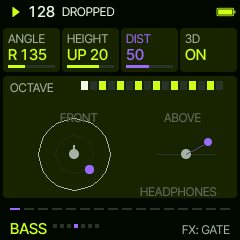
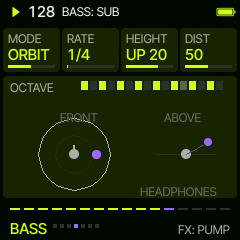
3D moving: MODE FIXED ORBIT RANDOM FLY, RATE for the orbits
Claude-Session: https://claude.ai/code/session_01VgesZgNNDFiPGvKyDTZVUK

diff --git a/firmware/src/sa_ui.c b/firmware/src/sa_ui.c
@@ -397,19 +397,28 @@ static void sv_cards_of(sa_ui *u, sv_card *c)
         break;
     }
     case SVP_3D: {
-        const sa_3d *d3 = &s->d3[sv_clampi(lc->part, 0, SA_SYNTHS - 1)];
+        int pp = sv_clampi(lc->part, 0, SA_SYNTHS - 1);
+        const sa_3d *d3 = &s->d3[pp];
+        static const char *const MODE[SA_3D_MODES] = {"OFF", "FIXED", "ORBIT", "RANDOM", "FLY"};
+        sv_card_txt(&c[0], "MODE", MODE[d3->on % SA_3D_MODES], d3->on * 1000 / (SA_3D_MODES - 1), false);
         int deg = d3->az * 5;
-        if (deg == 0) sv_cpy(t, "FRONT", sizeof t);
-        else if (deg == 180) sv_cpy(t, "BACK", sizeof t);
-        else { char a[8]; sv_cpy(t, deg < 180 ? "R " : "L ", sizeof t); sv_fmt_int(a, deg < 180 ? deg : 360 - deg);
-               sv_cat(t, a, sizeof t); }
-        sv_card_txt(&c[0], "ANGLE", t, d3->az * 1000 / (SA_AZ_STEPS - 1), false);
+        if (d3->on == SA_3D_ORBIT || d3->on == SA_3D_FLY) {
+            static const char *const R[SA_PRATES] = {"1/4", "1/2", "1 BAR", "2 BARS", "4 BARS"};
+            sv_card_txt(&c[1], "RATE", R[s->d3rate[pp] % SA_PRATES], s->d3rate[pp] * 1000 / (SA_PRATES - 1), false);
+        } else if (d3->on == SA_3D_RANDOM) {
+            sv_card_off(&c[1]);
+        } else {
+            if (deg == 0) sv_cpy(t, "FRONT", sizeof t);
+            else if (deg == 180) sv_cpy(t, "BACK", sizeof t);
+            else { char a[8]; sv_cpy(t, deg < 180 ? "R " : "L ", sizeof t); sv_fmt_int(a, deg < 180 ? deg : 360 - deg);
+                   sv_cat(t, a, sizeof t); }
+            sv_card_txt(&c[1], "ANGLE", t, d3->az * 1000 / (SA_AZ_STEPS - 1), false);
+        }
         if (d3->el == 0) sv_cpy(t, "LEVEL", sizeof t);
         else { char a[8]; sv_cpy(t, d3->el > 0 ? "UP " : "DOWN ", sizeof t); sv_fmt_int(a, d3->el > 0 ? d3->el : -d3->el);
                sv_cat(t, a, sizeof t); }
-        sv_card_txt(&c[1], "HEIGHT", t, (d3->el + 50) * 10, false);
-        sv_card_num(&c[2], "DIST", d3->dist, 0, 100);
-        sv_card_txt(&c[3], "3D", d3->on ? "ON" : "OFF", -1, false);
+        sv_card_txt(&c[2], "HEIGHT", t, (d3->el + 50) * 10, false);
+        sv_card_num(&c[3], "DIST", d3->dist, 0, 100);
         break;
     }
     case SVP_PUMP: {
@@ -972,7 +981,10 @@ static void sv_ring(int32_t cx, int32_t cy, int32_t r, uint16_t c)
 }
 static void sv_panel_3d(sa_ui *u)
 {
-    const sa_3d *d = &u->g->s.d3[sv_clampi(sv_live(u)->part, 0, SA_SYNTHS - 1)];
+    int pp = sv_clampi(sv_live(u)->part, 0, SA_SYNTHS - 1);
+    sa_3d dd = u->g->s.d3[pp];
+    const sa_3d *d = &dd;
+    if (dd.on) { dd.az = u->g->az_now[pp]; dd.el = u->g->el_now[pp]; }   /* (where it is now, moving) */
     uint16_t dot = d->on ? T_ACCENT : T_DIM;
     int32_t cx = 74, cy = 78, R = 36;
     sv_ring(cx, cy, R, T_MID);
@@ -992,7 +1004,7 @@ static void sv_panel_3d(sa_ui *u)
     int32_t hy = sy - d->el * 30 / 50, hx = sx + 22;
     cv_line_t(sx, sy, hx, hy, ux_mix(T_SURF, dot, 50), 1);
     cv_rrect(hx - 4, hy - 4, 8, 8, 4, dot, T_SURF);
-    sv_label(140, 108, d->on ? "HEADPHONES" : "3D OFF: KNOB 4", T_DIM);
+    sv_label(140, 108, d->on ? "HEADPHONES" : "MODE: KNOB 1", T_DIM);
 }
 
 /* PUMP: the layer's gain over a beat, down on the kick (or the beat) and back over RELEASE */
@@ -1360,11 +1372,15 @@ void sv_knob(sa_ui *u, int k, int d)
         break;
     }
     case SVP_3D: {                                 /* (turning ANGLE HEIGHT DISTANCE turns it on) */
-        sa_3d *d3 = &s->d3[sv_clampi(e->part, 0, SA_SYNTHS - 1)];
-        if (i == 0) d3->az = (uint8_t)sv_wrap(d3->az + d, SA_AZ_STEPS);
-        else if (i == 1) d3->el = (int8_t)sv_clampi(d3->el + d * 5, -50, 50);
-        else if (i == 2) SV_ADJ(d3->dist, 5, 0, 100);
-        d3->on = i == 3 ? (uint8_t)(d > 0) : 1;
+        int pp = sv_clampi(e->part, 0, SA_SYNTHS - 1);
+        sa_3d *d3 = &s->d3[pp];
+        if (i == 0) { d3->on = (uint8_t)sv_clampi(d3->on + d, 0, SA_3D_MODES - 1); break; }
+        if (!d3->on) d3->on = SA_3D_FIXED;        /* (turning the others turns it on) */
+        if (i == 1 && (d3->on == SA_3D_ORBIT || d3->on == SA_3D_FLY))
+            s->d3rate[pp] = (uint8_t)sv_clampi(s->d3rate[pp] + d, 0, SA_PRATES - 1);
+        else if (i == 1) d3->az = (uint8_t)sv_wrap(d3->az + d, SA_AZ_STEPS);
+        else if (i == 2) d3->el = (int8_t)sv_clampi(d3->el + d * 5, -50, 50);
+        else SV_ADJ(d3->dist, 5, 0, 100);
         break;
     }
     case SVP_PUMP: {

diff --git a/firmware/src/sa_layer.c b/firmware/src/sa_layer.c
@@ -854,6 +854,11 @@ static void pan_note(sa_groove *g, int l)
     const sa_code *c = &g->s.code[l];
     const sa_pan *p = &g->s.pan[l];
     if (c->type != SA_T_SYNTH || c->part >= SA_SYNTHS) return;
+    if (g->s.d3[c->part].on == SA_3D_RANDOM) {     /* 3D RANDOM: each note somewhere round you */
+        g->pan_rnd = g->pan_rnd * 1664525u + 1013904223u;
+        g->az_now[c->part] = (uint8_t)((g->pan_rnd >> 16) % SA_AZ_STEPS);
+        return;
+    }
     int w = p->width / 2;                          /* (WIDTH 100: 50 each way) */
     if (p->mode == SA_PAN_PINGPONG) {
         g->pan_side[l] ^= 1u;
@@ -880,8 +885,18 @@ static void pan_block(sa_groove *g)
         const sa_code *c = &g->s.code[l];
         const sa_pan *p = &g->s.pan[l];
         if (c->type != SA_T_SYNTH || c->part >= SA_SYNTHS) continue;
-        if (g->s.d3[c->part].on) {                 /* 3D: the angle pans it */
-            g->pan_now[c->part] = (int8_t)(sa_sin5(g->s.d3[c->part].az) * 63 / 127);
+        const sa_3d *d = &g->s.d3[c->part];
+        if (d->on) {                               /* 3D: where it is now; the angle pans it */
+            float len = (float)(SA_TPB / 4 * RATE_Q[g->s.d3rate[c->part] % SA_PRATES]);
+            float at = (float)((g->bar < 0 ? 0 : g->bar) * SA_TPB + (g->tick < 0 ? 0 : g->tick));
+            float ph = at / len;
+            ph -= (float)(int)ph;
+            int k = (int)(ph * (float)SA_AZ_STEPS);
+            g->el_now[c->part] = d->el;
+            if (d->on == SA_3D_FIXED) g->az_now[c->part] = d->az;
+            else if (d->on == SA_3D_ORBIT || d->on == SA_3D_FLY) g->az_now[c->part] = (uint8_t)((d->az + k) % SA_AZ_STEPS);
+            if (d->on == SA_3D_FLY) g->el_now[c->part] = (int8_t)clampi(d->el + sa_sin5(2 * k) * 30 / 127, -50, 50);
+            g->pan_now[c->part] = (int8_t)(sa_sin5(g->az_now[c->part]) * 63 / 127);
         } else if (p->mode == SA_PAN_FIXED) {
             g->pan_now[c->part] = (int8_t)pan_val(p->pos, 0);
         } else if (p->mode == SA_PAN_SWEEP) {
@@ -955,6 +970,7 @@ void sa_defaults(sa_settings *s)
         s->pan[l].width = 60;
         s->pan[l].rate = SA_PRATE_BAR;
     }
+    for (int p = 0; p < SA_SYNTHS; ++p) s->d3rate[p] = SA_PRATE_2BARS;
     for (int p = 0; p < SA_SYNTHS; ++p) {          /* LEAD 10 %, CHORD 80 %, BASS 50 % until the glue sets it by type */
         static const uint8_t DEP[SA_SYNTHS] = {10, 80, 50};
         s->pl[p].depth = DEP[p];
@@ -1099,7 +1115,8 @@ void sa_settings_fix(sa_settings *s)
     }
     for (int p = 0; p < SA_SYNTHS; ++p) {
         sa_3d *d = &s->d3[p];
-        d->on = (uint8_t)(d->on ? 1 : 0);
+        d->on = (uint8_t)(d->on % SA_3D_MODES);
+        s->d3rate[p] = (uint8_t)(s->d3rate[p] % SA_PRATES);
         d->az %= SA_AZ_STEPS;
         d->el = (int8_t)clampi(d->el, -50, 50);
         d->dist = (uint8_t)clampi(d->dist, 0, 100);

diff --git a/firmware/src/sa_layer.h b/firmware/src/sa_layer.h
@@ -113,8 +113,11 @@ typedef struct {
 
 /* a synth layer's place around you (0.7, headphones): ANGLE (az, 5-degree steps: 0 in front, 18 right, 36 behind, 54
  * left), HEIGHT (-50 below .. 50 above), DISTANCE (0 close .. 100 far). At once. On, the angle pans the layer (the PAN
- * page rests); behind and below darker, above brighter, far quieter, darker and wetter */
-typedef struct { uint8_t on, az; int8_t el; uint8_t dist; } sa_3d;
+ * page rests); behind and below darker, above brighter, far quieter, darker and wetter. MODE (on): FIXED where ANGLE
+ * says; ORBIT round you over RATE (d3rate, SA_PRATE_*), from ANGLE; RANDOM each note somewhere round you; FLY an orbit
+ * rising and falling about HEIGHT */
+enum { SA_3D_OFF, SA_3D_FIXED, SA_3D_ORBIT, SA_3D_RANDOM, SA_3D_FLY, SA_3D_MODES };
+typedef struct { uint8_t on, az; int8_t el; uint8_t dist; } sa_3d;   /* on: the MODE (SA_3D_*; 0.7's first 1: FIXED) */
 #define SA_AZ_STEPS 72
 int sa_sin5(int k);                                 /* sin(k * 5 degrees) * 127 */
 
@@ -145,6 +148,7 @@ typedef struct {
     sa_pan pan[SA_LAYERS];                          /* 0.5 */
     sa_3d d3[SA_SYNTHS];                            /* 0.7: LEAD CHORD BASS */
     sa_pumpl pl[SA_SYNTHS];                         /* 0.7 */
+    uint8_t d3rate[SA_SYNTHS];                      /* 0.7: 3D's RATE (ORBIT, FLY) */
 } sa_settings;
 
 typedef struct {
@@ -190,6 +194,8 @@ typedef struct {
     float gate_gain[SA_SYNTHS];                     /* each synth part's gate, 0..1, as it fades */
     uint8_t gate_off[SA_SYNTHS];                    /* 0..127: how far each synth part's gate has it down now */
     int8_t pan_now[SA_SYNTHS];                      /* each synth part's pan now, -64..63 (the glue puts it in) */
+    uint8_t az_now[SA_SYNTHS];                      /* 3D: each synth part's angle and height now (moving: ORBIT RANDOM FLY) */
+    int8_t el_now[SA_SYNTHS];
     uint8_t pan_side[SA_LAYERS];                    /* PING-PONG: the side the next note goes to */
     uint32_t pan_rnd;
     char msg[24];

diff --git a/tests/sa_ui_test.c b/tests/sa_ui_test.c
@@ -258,16 +258,30 @@ int main(int argc, char **argv)
     shot("07_bass_pan");
     press(SV_B_FX);
     CHECK(sv_page_now(&ui) == SVP_3D, "FX: 3D");
-    sv_knob(&ui, SV_K1, 27);
-    sv_knob(&ui, SV_K2, 4);
-    sv_knob(&ui, SV_K3, 10);
-    CHECK(g.s.d3[SA_L_BASS].on && g.s.d3[SA_L_BASS].az == 27 && g.s.d3[SA_L_BASS].el == 20 && g.s.d3[SA_L_BASS].dist == 50,
-          "3D: ANGLE HEIGHT DISTANCE, on");
+    sv_knob(&ui, SV_K2, 27);
+    sv_knob(&ui, SV_K3, 4);
+    sv_knob(&ui, SV_K4, 10);
+    CHECK(g.s.d3[SA_L_BASS].on == SA_3D_FIXED && g.s.d3[SA_L_BASS].az == 27 && g.s.d3[SA_L_BASS].el == 20 &&
+          g.s.d3[SA_L_BASS].dist == 50, "3D: ANGLE HEIGHT DISTANCE turn it on, FIXED");
     run_ms(50);
     CHECK(g.pan_now[SA_L_BASS] > 30, "3D: behind on the right pans right (%d)", g.pan_now[SA_L_BASS]);
     shot("07b_bass_3d");
     all_palettes("bass_3d");
-    sv_knob(&ui, SV_K4, -1);
+    sv_knob(&ui, SV_K1, 1);
+    CHECK(g.s.d3[SA_L_BASS].on == SA_3D_ORBIT, "MODE: ORBIT");
+    sv_knob(&ui, SV_K2, -3);
+    CHECK(g.s.d3rate[SA_L_BASS] == SA_PRATE_QUARTER, "ORBIT: RATE a quarter bar (%d)", g.s.d3rate[SA_L_BASS]);
+    {
+        int lo = 99, hi = -99;
+        for (int k = 0; k < 80; ++k) {
+            run_ms(16);
+            if (g.pan_now[SA_L_BASS] < lo) lo = g.pan_now[SA_L_BASS];
+            if (g.pan_now[SA_L_BASS] > hi) hi = g.pan_now[SA_L_BASS];
+        }
+        CHECK(lo < -40 && hi > 40, "ORBIT: round you, left and right (%d %d)", lo, hi);
+    }
+    shot("07d_bass_orbit");
+    sv_knob(&ui, SV_K1, -5);
     CHECK(!g.s.d3[SA_L_BASS].on, "3D OFF");
     press(SV_B_FX);
     CHECK(sv_page_now(&ui) == SVP_PUMP && g.s.pl[SA_L_BASS].depth == 50, "FX: PUMP, BASS at 50 %% (%d)",

diff --git a/firmware/src/sa_fw.c b/firmware/src/sa_fw.c
@@ -354,13 +354,20 @@ static void sa_apply(void)
         }
     }
     uint32_t sig = sv_hashb(2166136261u, s, sizeof *s);
+    sig = sv_hashb(sig, sa_g.az_now, sizeof sa_g.az_now);
+    sig = sv_hashb(sig, sa_g.el_now, sizeof sa_g.el_now);
     for (int p = 0; p < SA_SYNTHS; ++p) sig = sv_hashb(sig, &sa_loaded[p], sizeof sa_loaded[p]);
     if (sig != sa_applied_sig || !sig) {
         fm1_irq_off();
         for (int l = 0; l < SA_LAYERS; ++l) {
             const sa_code *c = &s->code[l];
             if (c->type == SA_T_SYNTH && c->part < SA_SYNTHS && sa_loaded[c->part] == c->sound)
-                sas_synth(&trk[c->part], sas_of(c->sound), &sa_base[c->part], &s->live[l], s, &s->d3[c->part]);
+            {
+                sa_3d now = s->d3[c->part];                  /* (3D where it is now: moving with ORBIT RANDOM FLY) */
+                now.az = sa_g.az_now[c->part];
+                now.el = sa_g.el_now[c->part];
+                sas_synth(&trk[c->part], sas_of(c->sound), &sa_base[c->part], &s->live[l], s, &now);
+            }
         }
         sas_drums(&trk[SA_PART_DRUMS], s);
         sas_song(s);

diff --git a/firmware/src/sa_ui.h b/firmware/src/sa_ui.h
@@ -12,8 +12,8 @@
  *   PRESETS    HOME, LEAD, CHORD, BASS, DRUMS
  *   ALGORITHM  the pattern of the layer (OFF first; a drum: OFF, then REMOVE; + ADD: which drum). Waits for SEQ
  *   KNOB 1..4  HOME: FILTER FEEL PUMP SPACE. A synth layer's pages: its home CUTOFF RESO DRIVE ENV (at once);
- *              SOUND (TYPE, SOUND, PUMP: at once); ARP on CHORD (MODE RATE RANGE GATE); PAN (at once); 3D (ANGLE HEIGHT
- *              DISTANCE, ON: at once, headphones); PUMP (DEPTH RELEASE SOURCE ON, at once); GATE; MOD (the
+ *              SOUND (TYPE, SOUND, PUMP: at once); ARP on CHORD (MODE RATE RANGE GATE); PAN (at once); 3D (MODE: OFF FIXED
+ *              ORBIT RANDOM FLY, ANGLE or RATE, HEIGHT, DISTANCE: at once, headphones); PUMP (DEPTH RELEASE SOURCE ON, at once); GATE; MOD (the
  *              four modifiers); MIX (MUTE, LEVEL: at once). DRUMS: DRUM LEVEL ACCENT CHANCE; KIT (KIT TUNE TONE DECAY);
  *              MOD; MIX
  *   FX         a layer: its next page (the last: back to its home)

diff --git a/docs/MANUAL.md b/docs/MANUAL.md
@@ -50,7 +50,7 @@ LEAD lead lines and the bass lines). FX turns through its pages:
 | MIX (the first) | VOLUME (fades it in and out) | TYPE (BASS KEYS PADS LEADS FX) | INSTR (the sound, by name; the header says it whole) | MUTE | at once |
 | ARP (CHORD only) | MODE (OFF, UP, DOWN, UP-DOWN, DOWN-UP, CONVERGE, DIVERGE, RANDOM, THUMB, PINKY, STRUM) | RATE | RANGE | GATE | waits for SEQ |
 | PAN | MODE (FIXED, SWEEP, PING-PONG, RANDOM) | PAN | WIDTH | RATE (SWEEP) | at once |
-| 3D | ANGLE (around you) | HEIGHT | DIST | 3D ON / OFF | at once |
+| 3D | MODE (OFF FIXED ORBIT RANDOM FLY) | ANGLE (FIXED) or RATE (ORBIT, FLY) | HEIGHT | DIST | at once |
 | PUMP | DEPTH (of HOME's PUMP) | RELEASE | SOURCE (KICK, BEAT) | PUMP ON / OFF | at once |
 | GATE | a ready gate (or OFF) | DEPTH | WIDTH | SMOOTH | waits for SEQ |
 | MOD | MOD 1 | MOD 2 | MOD 3 | MOD 4 | waits for SEQ |
@@ -70,11 +70,13 @@ LEAD lead lines and the bass lines). FX turns through its pages:
 </p>
 
 **3D** places the layer around you, for headphones: from above (FRONT up) the dot is the layer, near you or far; beside
-it, from the side, its height. Turning ANGLE, HEIGHT or DIST turns it on; KNOB 4 turns it off. On, the angle pans the
-layer (the PAN page rests), behind and below sound darker and a little softer, above brighter, far quieter, darker and
-wetter, and the layer narrows to a point. These are cues the ear reads, not a measured head model: left, right and
-far come across best; front against back and up against down are subtler and differ from one listener to the next.
-On speakers it is panning and tone.
+it, from the side, its height; the dot moves as the layer does. **MODE**: FIXED (where ANGLE says), ORBIT (round you
+over RATE, a quarter bar to four bars), RANDOM (each note somewhere else round you) and FLY (an orbit rising and
+falling about HEIGHT). Turning ANGLE, HEIGHT or DIST from OFF turns it on, FIXED. On, the angle pans the layer (the PAN
+page rests), behind and below sound darker and a little softer, above brighter, far quieter, darker and wetter, and
+the layer narrows to a point. These are cues the ear reads, not a measured head model: left, right and far come across
+best; front against back and up against down are subtler and differ from one listener to the next. On speakers it is
+panning and tone.
 
 <p align="center">
 <img src="screens/pump.png" alt="PUMP" width="200">

diff --git a/docs/RELEASE.md b/docs/RELEASE.md
@@ -6,7 +6,8 @@ Sardine 0.7: live club mixing for the FM-1.
 - DRUMS: seven rows on channels of their own (KICK SNARE CLAP HATS TOMS RIM METAL), each drum switched at once;
   VOLUME and ACCENT per row, CHANCE beside the modifiers; the kit's TUNE, TONE and DECAY on its KIT page
 - PUMP per layer: its depth (set by the sound's type), release, and the kick or every beat
-- 3D: a synth layer placed around you for headphones (angle, height, distance), drawn on a circle
+- 3D: a synth layer placed around you for headphones (angle, height, distance), fixed or moving (ORBIT, RANDOM,
+  FLY), drawn on a circle
 - CHORD's arpeggiator, off until you turn it on; GATE, PAN and four modifiers on every layer
 - Every start a fresh groove; SETS keeps eight grooves (LOAD on the one, STORE, NEW, CLEAR) and LAST, the last groove,
   by itself
